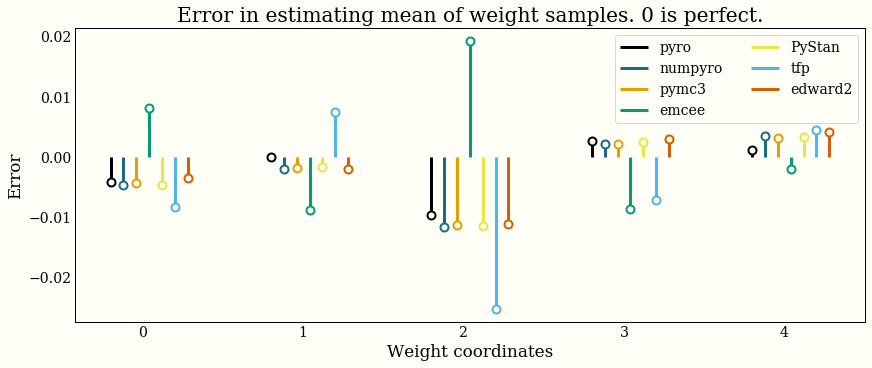
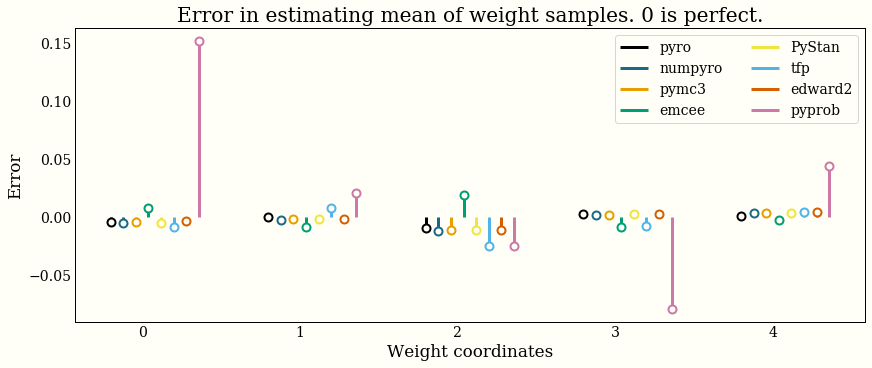
Add pyprob

diff --git a/index.html b/index.html
@@ -422,6 +422,42 @@ def linear_model():
         </section>
 
         <section>
+            <h2>PyProb</h2>
+            version 0.13.0
+            <p><a href="https://github.com/probprog/pyprob">Documentation</a>. </p>
+            <p>Joins <code>emcee</code> in not using a gradient based sampler -- here we use importance sampling. I also
+                had to cheat a little bit and take 50,000 samples instead of 1,000 to get the estimates to be reasonable.
+                The samples are pretty fast, but I suspect this does not scale to higher dimensions (but I also suspect
+                that this does allow for defining a more broad class of models than most of the other languages).
+                Defining this model was pretty nice, and I am surprised more languages do not subclass a <code>Model</code>
+                object.
+            </p>
+            <pre class="code prettyprint lang-python">import torch
+
+import pyprob
+from pyprob import Model
+from pyprob.distributions import Normal
+
+
+class LinearModel(Model):
+    def forward(self):
+        X_tensor = torch.as_tensor(X, dtype=torch.float32)
+
+        w = pyprob.sample(Normal(torch.zeros(ndims), torch.ones(ndims)))
+        y = Normal(torch.matmul(X_tensor, w), 0.1 * torch.ones(ndata))
+
+        pyprob.observe(y, name='y_obs')
+        return w
+
+model = LinearModel()
+
+posterior = model.posterior_distribution(num_traces=50_000,
+                                         inference_engine=pyprob.InferenceEngine.IMPORTANCE_SAMPLING,
+                                         observe={'y_obs': torch.as_tensor(y_obs, dtype=torch.float32)})
+</pre>
+</section>
+
+        <section>
             <h2>Accuracy</h2>
             <p>I have confidence that all the libraries implement their algorithm of choice correctly, and I tried to
                 write a simple model that would provide some reasonable samples from the correct
